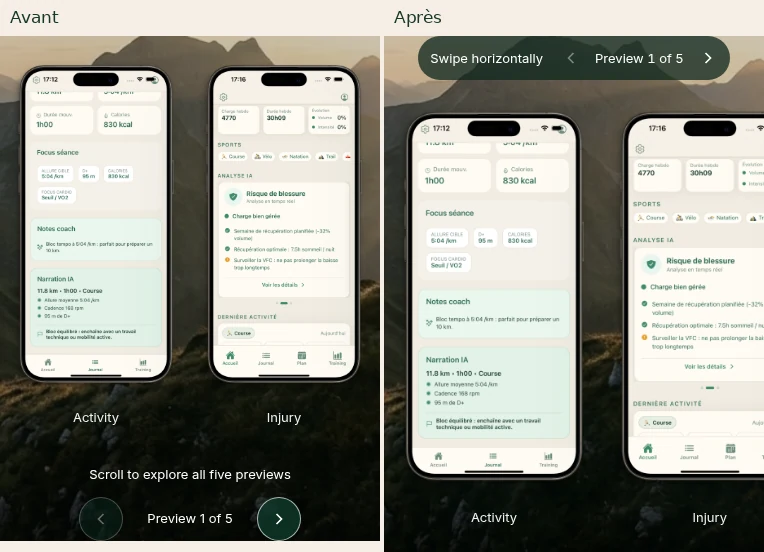
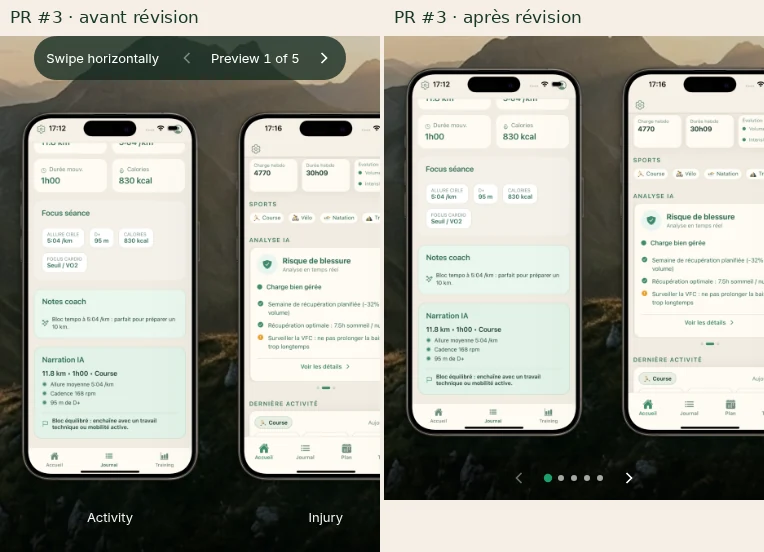
fix: replace preview captions and navigation text with synchronized dots

diff --git a/assets/product-gallery.js b/assets/product-gallery.js
@@ -4,58 +4,66 @@ document.querySelectorAll('[data-product-gallery]').forEach((gallery) => {
   const slides = [...gallery.querySelectorAll('[data-gallery-slide]')];
   const previous = gallery.querySelector('[data-gallery-previous]');
   const next = gallery.querySelector('[data-gallery-next]');
+  const dots = gallery.querySelector('.gallery-dots');
   const position = gallery.querySelector('[data-gallery-position]');
-  if (!track || slides.length < 2 || !previous || !next || !position) return;
+  if (!track || slides.length < 2 || !previous || !next || !dots || !position) return;
 
   const compact = matchMedia('(max-width: 899px)');
   const reducedMotion = matchMedia('(prefers-reduced-motion: reduce)');
   const english = document.documentElement.lang === 'en';
+  const indicators = slides.map(() => dots.appendChild(document.createElement('span')));
+  let offsets = [];
+  let active = -1;
   let frame = 0;
 
-  const step = () => slides[1].offsetLeft - slides[0].offsetLeft;
-  const scrollTo = (left) => track.scrollTo({
-    left,
-    behavior: reducedMotion.matches ? 'auto' : 'smooth',
-  });
-
   function update() {
-    const limit = Math.max(0, track.scrollWidth - track.clientWidth);
-    const scrollable = compact.matches && limit > 1;
-    const atStart = track.scrollLeft <= 2;
-    const atEnd = track.scrollLeft >= limit - 2;
-    gallery.dataset.galleryScrollable = String(scrollable);
-    track.tabIndex = scrollable ? 0 : -1;
-    previous.disabled = !scrollable || atStart;
-    next.disabled = !scrollable || atEnd;
-    const index = atEnd && scrollable ? slides.length - 1
-      : Math.min(slides.length - 1, Math.max(0, Math.round(track.scrollLeft / step())));
-    const text = english ? `Preview ${index + 1} of ${slides.length}`
-      : `Aperçu ${index + 1} sur ${slides.length}`;
-    if (position.textContent !== text) position.textContent = text;
+    const left = track.scrollLeft;
+    const index = offsets.reduce((nearest, offset, i) =>
+      Math.abs(offset - left) < Math.abs(offsets[nearest] - left) ? i : nearest, 0);
+    if (index === active) return;
+    active = index;
+    previous.disabled = active === 0;
+    next.disabled = active === slides.length - 1;
+    indicators.forEach((dot, i) => dot.classList.toggle('is-active', i === active));
+    position.textContent = english ? `Preview ${active + 1} of ${slides.length}`
+      : `Aperçu ${active + 1} sur ${slides.length}`;
   }
 
-  previous.addEventListener('click', () => scrollTo(track.scrollLeft - step()));
-  next.addEventListener('click', () => scrollTo(track.scrollLeft + step()));
+  function measure() {
+    const limit = Math.max(0, track.scrollWidth - track.clientWidth);
+    const scrollable = compact.matches && limit > 1;
+    gallery.dataset.galleryScrollable = String(scrollable);
+    track.tabIndex = scrollable ? 0 : -1;
+    // Match native center snapping, including the clamped first and last slides.
+    const center = track.getBoundingClientRect().left + track.clientWidth / 2;
+    offsets = slides.map(slide => {
+      const rect = slide.getBoundingClientRect();
+      return Math.max(0, Math.min(limit, track.scrollLeft + rect.left + rect.width / 2 - center));
+    });
+    update();
+  }
+
+  function goTo(index) {
+    track.scrollTo({
+      left: offsets[Math.max(0, Math.min(index, slides.length - 1))],
+      behavior: reducedMotion.matches ? 'instant' : 'smooth',
+    });
+  }
+
+  previous.addEventListener('click', () => goTo(active - 1));
+  next.addEventListener('click', () => goTo(active + 1));
   track.addEventListener('keydown', (event) => {
     if (!compact.matches || event.target !== track || event.altKey || event.ctrlKey || event.metaKey) return;
-    const destinations = {
-      ArrowLeft: track.scrollLeft - step(),
-      ArrowRight: track.scrollLeft + step(),
-      Home: 0,
-      End: track.scrollWidth - track.clientWidth,
-    };
+    const destinations = { ArrowLeft: active - 1, ArrowRight: active + 1, Home: 0, End: slides.length - 1 };
     if (!(event.key in destinations)) return;
     event.preventDefault();
-    scrollTo(destinations[event.key]);
+    goTo(destinations[event.key]);
   });
   track.addEventListener('scroll', () => {
     cancelAnimationFrame(frame);
     frame = requestAnimationFrame(update);
   }, { passive: true });
-  compact.addEventListener('change', () => {
-    track.scrollTo({ left: 0, behavior: 'auto' });
-    update();
-  });
-  new ResizeObserver(update).observe(track);
-  update();
+  compact.addEventListener('change', measure);
+  new ResizeObserver(measure).observe(track);
+  measure();
 });

diff --git a/index.html b/index.html
@@ -9,7 +9,7 @@
     content="Rockso est un assistant d’entraînement multisport qui t'aide à rester dans le bon tempo : capter les bons moments pour pousser, les bons moments pour récupérer, et construire une progression qui dure, semaine après semaine." />
   <link rel="preconnect" href="https://fonts.googleapis.com" />
   <link rel="preconnect" href="https://fonts.gstatic.com" crossorigin />
-  <link rel="stylesheet" href="assets/styles-v2.css?v=20261126-ux" />
+  <link rel="stylesheet" href="assets/styles-v2.css?v=20261126-dots" />
   <link rel="stylesheet" href="assets/analytics-consent.css?v=20261126-ux" />
   <script type="module" src="assets/analytics.js?v=20261126-ux"></script>
   <script type="module" src="assets/minimal-audience.js?v=20261126-ux"></script>
@@ -107,40 +107,33 @@
           </p>
 
           <div class="product-gallery" data-product-gallery>
-            <div class="product-gallery-nav">
-              <p id="product-gallery-hint" class="product-gallery-hint">Balayez horizontalement</p>
-              <div class="product-gallery-controls">
-                <button type="button" class="gallery-arrow" data-gallery-previous aria-controls="product-screens" aria-label="Aperçu précédent">
-                  <svg width="20" height="20" viewBox="0 0 24 24" fill="none" stroke="currentColor" stroke-width="2" aria-hidden="true"><path d="m15 6-6 6 6 6" /></svg>
-                </button>
-                <span data-gallery-position aria-live="polite" aria-atomic="true">Aperçu 1 sur 5</span>
-                <button type="button" class="gallery-arrow" data-gallery-next aria-controls="product-screens" aria-label="Aperçu suivant">
-                  <svg width="20" height="20" viewBox="0 0 24 24" fill="none" stroke="currentColor" stroke-width="2" aria-hidden="true"><path d="m9 6 6 6-6 6" /></svg>
-                </button>
-              </div>
-            </div>
             <div class="screens-row" id="product-screens" data-gallery-track tabindex="0" role="region"
-              aria-label="Aperçus de l'application Rockso" aria-describedby="product-gallery-hint">
+              aria-label="Aperçus de l'application Rockso">
               <figure class="screen-mockup" data-gallery-slide>
                 <img src="assets/img/mockup_activite.png" alt="Écran activité Rockso" />
-                <figcaption>Activité</figcaption>
               </figure>
               <figure class="screen-mockup" data-gallery-slide>
                 <img src="assets/img/mockup_blessure.png" alt="Écran blessure" />
-                <figcaption>Blessure</figcaption>
               </figure>
               <figure class="screen-mockup" data-gallery-slide>
                 <img src="assets/img/mockup_coach_ia.png" alt="Écran assistant coach IA" />
-                <figcaption>Assistant IA</figcaption>
               </figure>
               <figure class="screen-mockup" data-gallery-slide>
                 <img src="assets/img/mockup_map.png" alt="Écran carte" />
-                <figcaption>Carte</figcaption>
               </figure>
               <figure class="screen-mockup" data-gallery-slide>
                 <img src="assets/img/mockup_semaine_pro.png" alt="Écran semaine" />
-                <figcaption>Semaine</figcaption>
               </figure>
+            </div>
+            <div class="product-gallery-nav">
+              <button type="button" class="gallery-arrow" data-gallery-previous aria-controls="product-screens" aria-label="Aperçu précédent">
+                <svg width="20" height="20" viewBox="0 0 24 24" fill="none" stroke="currentColor" stroke-width="2" aria-hidden="true"><path d="m15 6-6 6 6 6" /></svg>
+              </button>
+              <span class="gallery-dots" aria-hidden="true"></span>
+              <span class="gallery-position" data-gallery-position aria-live="polite" aria-atomic="true">Aperçu 1 sur 5</span>
+              <button type="button" class="gallery-arrow" data-gallery-next aria-controls="product-screens" aria-label="Aperçu suivant">
+                <svg width="20" height="20" viewBox="0 0 24 24" fill="none" stroke="currentColor" stroke-width="2" aria-hidden="true"><path d="m9 6 6 6-6 6" /></svg>
+              </button>
             </div>
           </div>
         </div>
@@ -791,7 +784,7 @@
   </footer>
 
   <script src="assets/navigation.js"></script>
-  <script src="assets/product-gallery.js"></script>
+  <script src="assets/product-gallery.js?v=20261126-dots"></script>
   <script>
     document.getElementById("year").textContent = new Date().getFullYear();
 

diff --git a/index-en.html b/index-en.html
@@ -9,7 +9,7 @@
     content="Rockso is a multisport training assistant that helps you stay in the right rhythm: knowing when to push, when to recover, and how to build progress that lasts week after week." />
   <link rel="preconnect" href="https://fonts.googleapis.com" />
   <link rel="preconnect" href="https://fonts.gstatic.com" crossorigin />
-  <link rel="stylesheet" href="assets/styles-v2.css?v=20261126-ux" />
+  <link rel="stylesheet" href="assets/styles-v2.css?v=20261126-dots" />
   <link rel="stylesheet" href="assets/analytics-consent.css?v=20261126-ux" />
   <script type="module" src="assets/analytics.js?v=20261126-ux"></script>
   <script type="module" src="assets/minimal-audience.js?v=20261126-ux"></script>
@@ -105,40 +105,33 @@
           </p>
 
           <div class="product-gallery" data-product-gallery>
-            <div class="product-gallery-nav">
-              <p id="product-gallery-hint" class="product-gallery-hint">Swipe horizontally</p>
-              <div class="product-gallery-controls">
-                <button type="button" class="gallery-arrow" data-gallery-previous aria-controls="product-screens" aria-label="Previous preview">
-                  <svg width="20" height="20" viewBox="0 0 24 24" fill="none" stroke="currentColor" stroke-width="2" aria-hidden="true"><path d="m15 6-6 6 6 6" /></svg>
-                </button>
-                <span data-gallery-position aria-live="polite" aria-atomic="true">Preview 1 of 5</span>
-                <button type="button" class="gallery-arrow" data-gallery-next aria-controls="product-screens" aria-label="Next preview">
-                  <svg width="20" height="20" viewBox="0 0 24 24" fill="none" stroke="currentColor" stroke-width="2" aria-hidden="true"><path d="m9 6 6 6-6 6" /></svg>
-                </button>
-              </div>
-            </div>
             <div class="screens-row" id="product-screens" data-gallery-track tabindex="0" role="region"
-              aria-label="Rockso app previews" aria-describedby="product-gallery-hint">
+              aria-label="Rockso app previews">
               <figure class="screen-mockup" data-gallery-slide>
                 <img src="assets/img/mockup_activite.png" alt="Rockso activity screen" />
-                <figcaption>Activity</figcaption>
               </figure>
               <figure class="screen-mockup" data-gallery-slide>
                 <img src="assets/img/mockup_blessure.png" alt="Injury screen" />
-                <figcaption>Injury</figcaption>
               </figure>
               <figure class="screen-mockup" data-gallery-slide>
                 <img src="assets/img/mockup_coach_ia.png" alt="AI coach assistant screen" />
-                <figcaption>AI assistant</figcaption>
               </figure>
               <figure class="screen-mockup" data-gallery-slide>
                 <img src="assets/img/mockup_map.png" alt="Map screen" />
-                <figcaption>Map</figcaption>
               </figure>
               <figure class="screen-mockup" data-gallery-slide>
                 <img src="assets/img/mockup_semaine_pro.png" alt="Week screen" />
-                <figcaption>Week</figcaption>
               </figure>
+            </div>
+            <div class="product-gallery-nav">
+              <button type="button" class="gallery-arrow" data-gallery-previous aria-controls="product-screens" aria-label="Previous preview">
+                <svg width="20" height="20" viewBox="0 0 24 24" fill="none" stroke="currentColor" stroke-width="2" aria-hidden="true"><path d="m15 6-6 6 6 6" /></svg>
+              </button>
+              <span class="gallery-dots" aria-hidden="true"></span>
+              <span class="gallery-position" data-gallery-position aria-live="polite" aria-atomic="true">Preview 1 of 5</span>
+              <button type="button" class="gallery-arrow" data-gallery-next aria-controls="product-screens" aria-label="Next preview">
+                <svg width="20" height="20" viewBox="0 0 24 24" fill="none" stroke="currentColor" stroke-width="2" aria-hidden="true"><path d="m9 6 6 6-6 6" /></svg>
+              </button>
             </div>
           </div>
         </div>
@@ -767,7 +760,7 @@
   </footer>
 
   <script src="assets/navigation.js"></script>
-  <script src="assets/product-gallery.js"></script>
+  <script src="assets/product-gallery.js?v=20261126-dots"></script>
   <script>
     document.getElementById("year").textContent = new Date().getFullYear();
 

diff --git a/assets/styles-v2.css b/assets/styles-v2.css
@@ -2345,18 +2345,35 @@ h5 {
   min-width: 0;
 }
 
-.section-screens-hero figcaption {
-  width: 100%;
-  margin-top: 8px;
-  color: #fff;
-  text-align: center;
-  font-size: 13px;
-  line-height: 1.5;
-  overflow-wrap: anywhere;
-}
-
 .product-gallery-nav {
   display: none;
+}
+
+.gallery-position {
+  position: absolute;
+  width: 1px;
+  height: 1px;
+  overflow: hidden;
+  clip-path: inset(50%);
+  white-space: nowrap;
+}
+
+.gallery-dots {
+  display: flex;
+  align-items: center;
+  gap: 7px;
+}
+
+.gallery-dots span {
+  width: 6px;
+  height: 6px;
+  border-radius: 50%;
+  background: rgb(255 255 255 / 64%);
+}
+
+.gallery-dots .is-active {
+  background: var(--accent-green);
+  transform: scale(1.4);
 }
 
 .gallery-arrow {
@@ -2434,9 +2451,8 @@ h5 {
     overscroll-behavior-x: contain;
     scroll-snap-type: x mandatory;
     scroll-padding-inline: 8px;
-    scrollbar-width: thin;
-    scrollbar-color: rgba(255, 255, 255, .7) rgba(255, 255, 255, .15);
-    padding: 12px 8px 24px;
+    scrollbar-width: none;
+    padding: 12px 8px 0;
   }
 
   .section-screens-hero .screen-mockup img {
@@ -2445,49 +2461,20 @@ h5 {
   }
 
   .section-screens-hero .screen-mockup {
-    scroll-snap-align: start;
+    scroll-snap-align: center;
   }
 
   .section-screens-hero .screen-mockup:hover {
     transform: none;
   }
 
-  .product-gallery-nav {
+  [data-gallery-scrollable="true"] .product-gallery-nav {
     display: flex;
     justify-content: center;
     align-items: center;
-    gap: 6px;
+    gap: 4px;
     width: fit-content;
-    max-width: 100%;
     margin: 0 auto;
-    padding-inline-start: 12px;
-    border-radius: 24px;
-    background: rgba(15, 40, 31, .76);
-    color: #fff;
-  }
-
-  .product-gallery-hint {
-    margin: 0;
-    font-size: 13px;
-    text-align: center;
-  }
-
-  .product-gallery-controls {
-    display: none;
-  }
-
-  [data-gallery-scrollable="true"] .product-gallery-controls {
-    display: inline-flex;
-    align-items: center;
-    justify-content: center;
-    gap: 2px;
-    flex-shrink: 0;
-  }
-
-  [data-gallery-position] {
-    font-variant-numeric: tabular-nums;
-    text-align: center;
-    font-size: 13px;
   }
 }
 

diff --git a/docs/recette-vitrine-2026-11-26/README.md b/docs/recette-vitrine-2026-11-26/README.md
@@ -1,19 +1,19 @@
 # Recette de la vitrine · 26 novembre 2026
 
-Le panneau français passe de 883 à 420 px sur le profil Android. Les deux décisions globales et l’enregistrement de la sélection tiennent dans la fenêtre dès l’ouverture. Le carrousel indique le balayage avant la première capture et laisse entrevoir la suivante sur mobile. Les cinq aperçus sont visibles ensemble sur desktop.
+Sur mobile, la navigation se trouve sous les captures. Deux flèches encadrent cinq points, dont un vert pour l’écran actif. Sur desktop, les cinq captures sont visibles ensemble. Les descriptions des images restent accessibles aux lecteurs d’écran.
 
 ## Captures avant et après
 
-La colonne gauche de chaque image montre `main` au commit `74ad7df`. La colonne droite montre le correctif. Les hauteurs sont mesurées en pixels CSS avec les détails repliés. Les comparaisons mobiles du carrousel sont cadrées sur la galerie.
+Chaque comparaison oppose la première version de la PR (`935dd40`, à gauche) à la version révisée (à droite). Sur mobile, les comparatifs du carrousel sont cadrés sur la galerie. Les hauteurs du panneau de confidentialité sont mesurées en pixels CSS, détails repliés. Le nouveau libellé Analyse ajoute une ligne sur les deux profils mobiles. Les trois actions restent visibles sans défilement dans les deux langues.
 
 | Profil Playwright | Langue | Hauteur avant → après | Confidentialité | Carrousel |
 | --- | --- | ---: | --- | --- |
-| iPhone 13 · 390 × 844 | FR | 812 → 424 px | [Panneau](iphone-fr-consent.webp) | [Aperçus](iphone-fr-gallery.webp) |
-| iPhone 13 · 390 × 844 | EN | 812 → 400 px | [Panneau](iphone-en-consent.webp) | [Aperçus](iphone-en-gallery.webp) |
-| Pixel 7 · 412 × 915 | FR | 883 → 420 px | [Panneau](android-fr-consent.webp) | [Aperçus](android-fr-gallery.webp) |
-| Pixel 7 · 412 × 915 | EN | 883 → 400 px | [Panneau](android-en-consent.webp) | [Aperçus](android-en-gallery.webp) |
-| Desktop · 1440 × 900 | FR | 868 → 400 px | [Panneau](desktop-fr-consent.webp) | [Aperçus](desktop-fr-gallery.webp) |
-| Desktop · 1440 × 900 | EN | 857 → 379 px | [Panneau](desktop-en-consent.webp) | [Aperçus](desktop-en-gallery.webp) |
+| iPhone 13 · 390 × 844 | FR | 424 → 445 px | [Panneau](iphone-fr-consent.webp) | [Aperçus](iphone-fr-gallery.webp) |
+| iPhone 13 · 390 × 844 | EN | 400 → 420 px | [Panneau](iphone-en-consent.webp) | [Aperçus](iphone-en-gallery.webp) |
+| Pixel 7 · 412 × 915 | FR | 420 → 440 px | [Panneau](android-fr-consent.webp) | [Aperçus](android-fr-gallery.webp) |
+| Pixel 7 · 412 × 915 | EN | 400 → 420 px | [Panneau](android-en-consent.webp) | [Aperçus](android-en-gallery.webp) |
+| Desktop · 1440 × 900 | FR | 400 → 420 px | [Panneau](desktop-fr-consent.webp) | [Aperçus](desktop-fr-gallery.webp) |
+| Desktop · 1440 × 900 | EN | 379 → 400 px | [Panneau](desktop-en-consent.webp) | [Aperçus](desktop-en-gallery.webp) |
 
 ## Consentement Analytics
 
@@ -33,7 +33,7 @@ La recette relit aussi un accord et un refus au format déjà publié le 28 octo
 
 ## Carrousel et accessibilité
 
-**238 combinaisons page × largeur réussies** sur 14 pages, de 320 à 2560 px. Les flèches et les touches de direction permettent de parcourir les cinq aperçus. Début et Fin atteignent les extrémités. Le repère de position est annoncé dans la langue de la page. Quatre balayages tactiles injectés dans Chromium ont déplacé le carrousel et mis à jour son repère sur les profils iPhone et Android, en FR et EN. [Script Playwright](../../scripts/check-responsive.mjs)
+**238 combinaisons page × largeur réussies** sur 14 pages, de 320 à 2560 px. Les flèches parcourent les cinq aperçus dans les deux sens. Les tests vérifient la position de la capture, l’unicité du point actif et l’annonce de position en FR et EN à chaque étape. Les touches de direction, Début et Fin restent disponibles lorsque le carrousel a le focus. Quatre balayages tactiles injectés dans Chromium ont déplacé le carrousel et mis à jour son repère sur les profils iPhone et Android, en FR et EN. [Script Playwright](../../scripts/check-responsive.mjs)
 
 Le focus initial se place sur le titre du panneau. Les deux actions globales ont les mêmes dimensions et le même style. Les informations détaillées et leurs liens restent accessibles après dépliage, y compris à 320 × 568 et 844 × 390 px.
 
